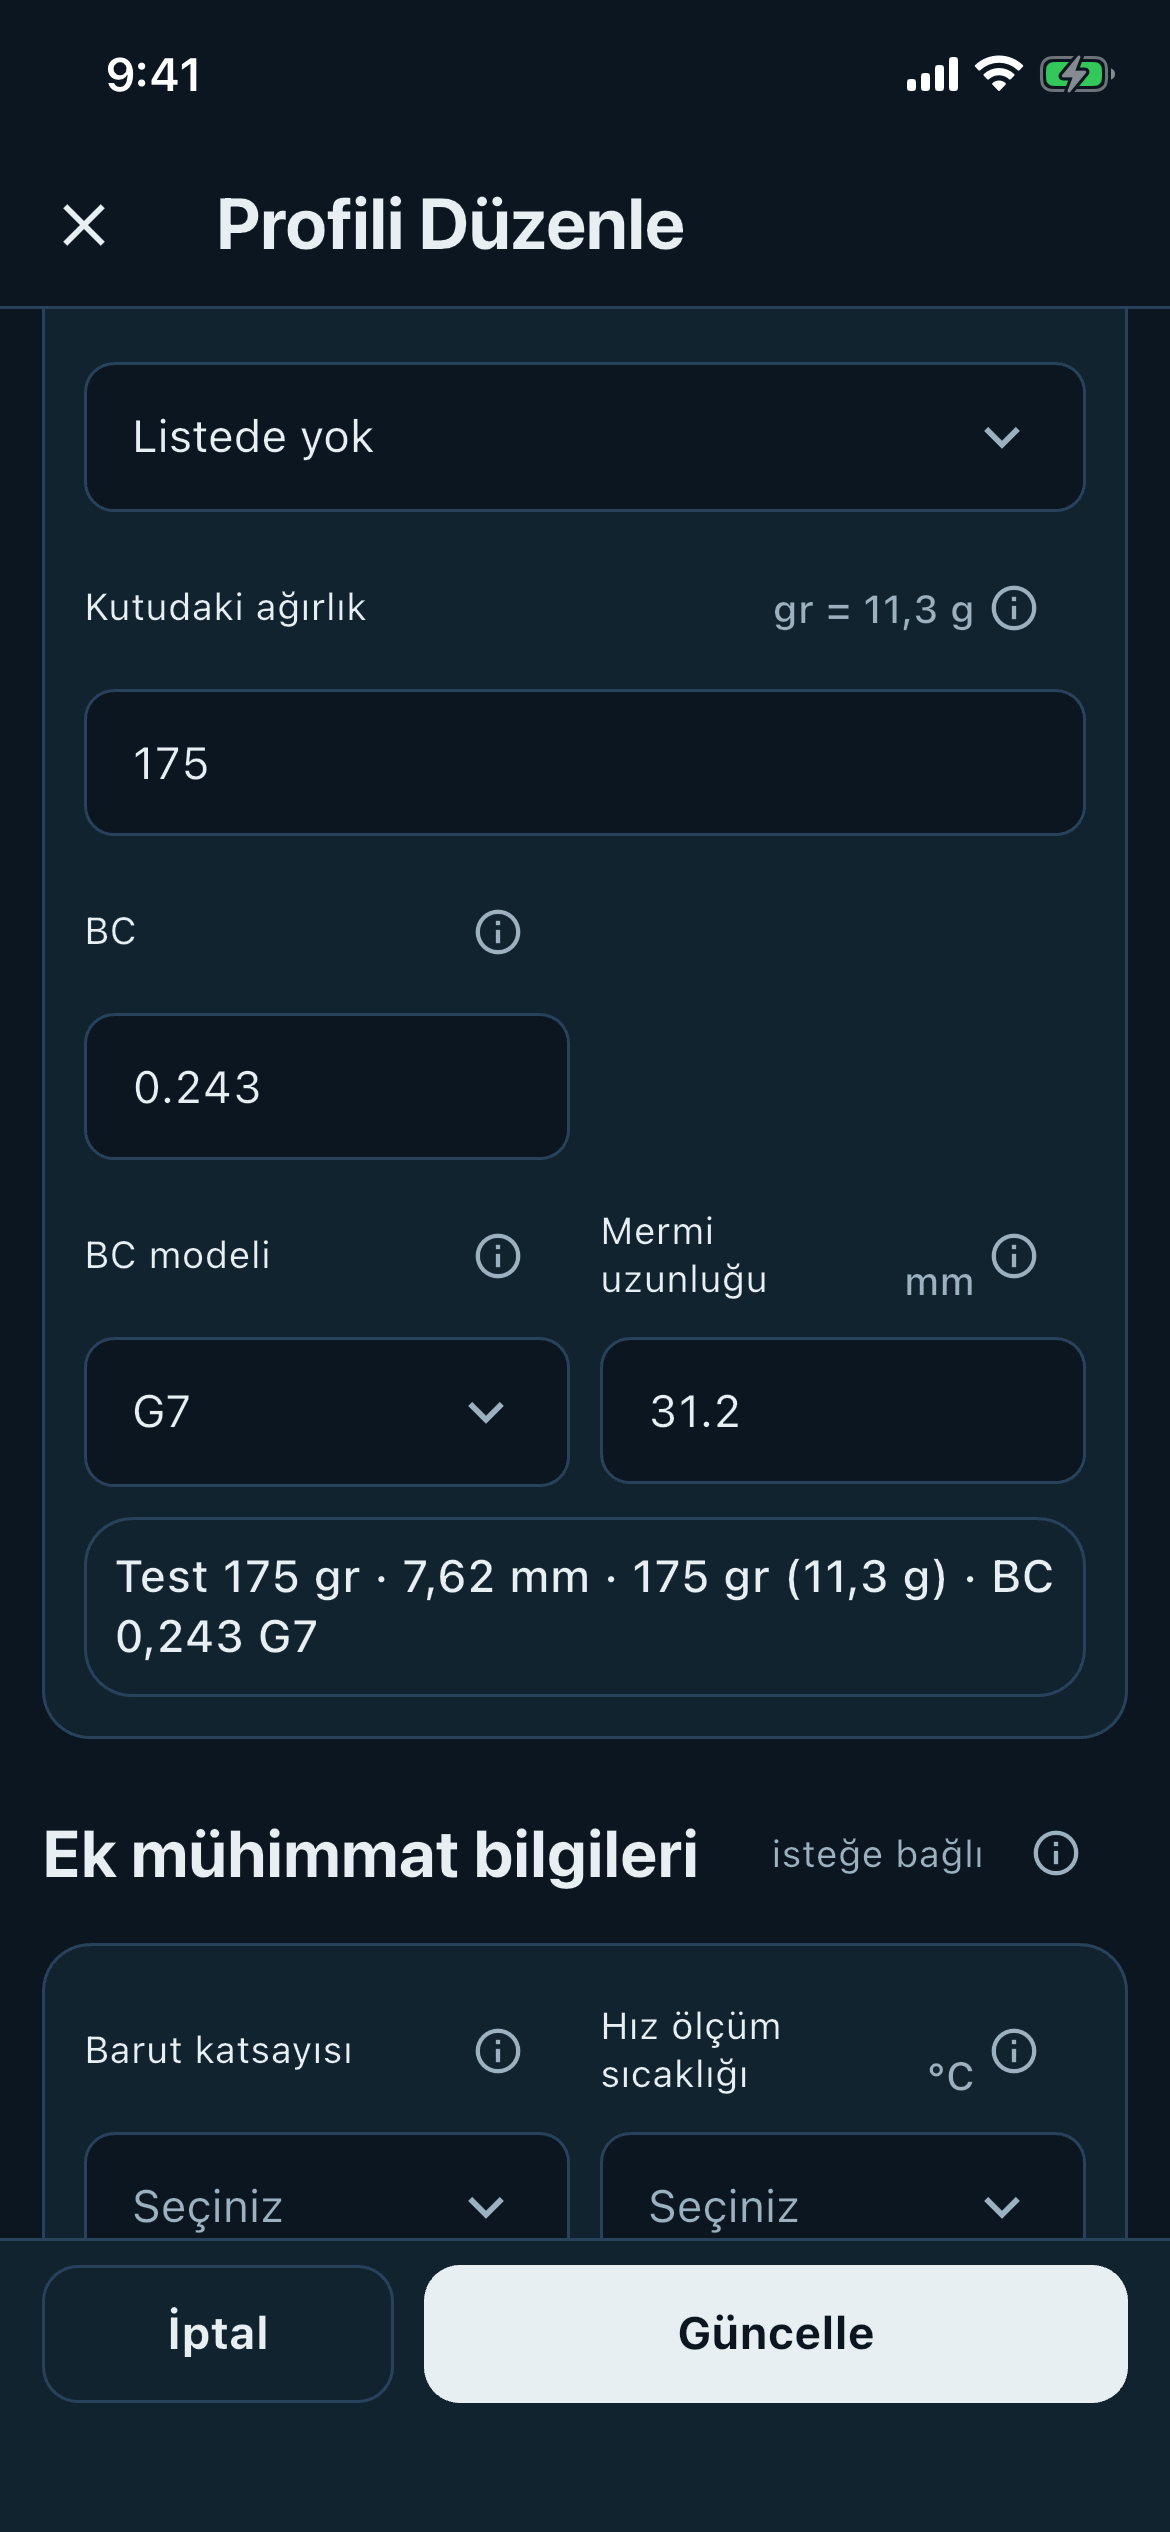
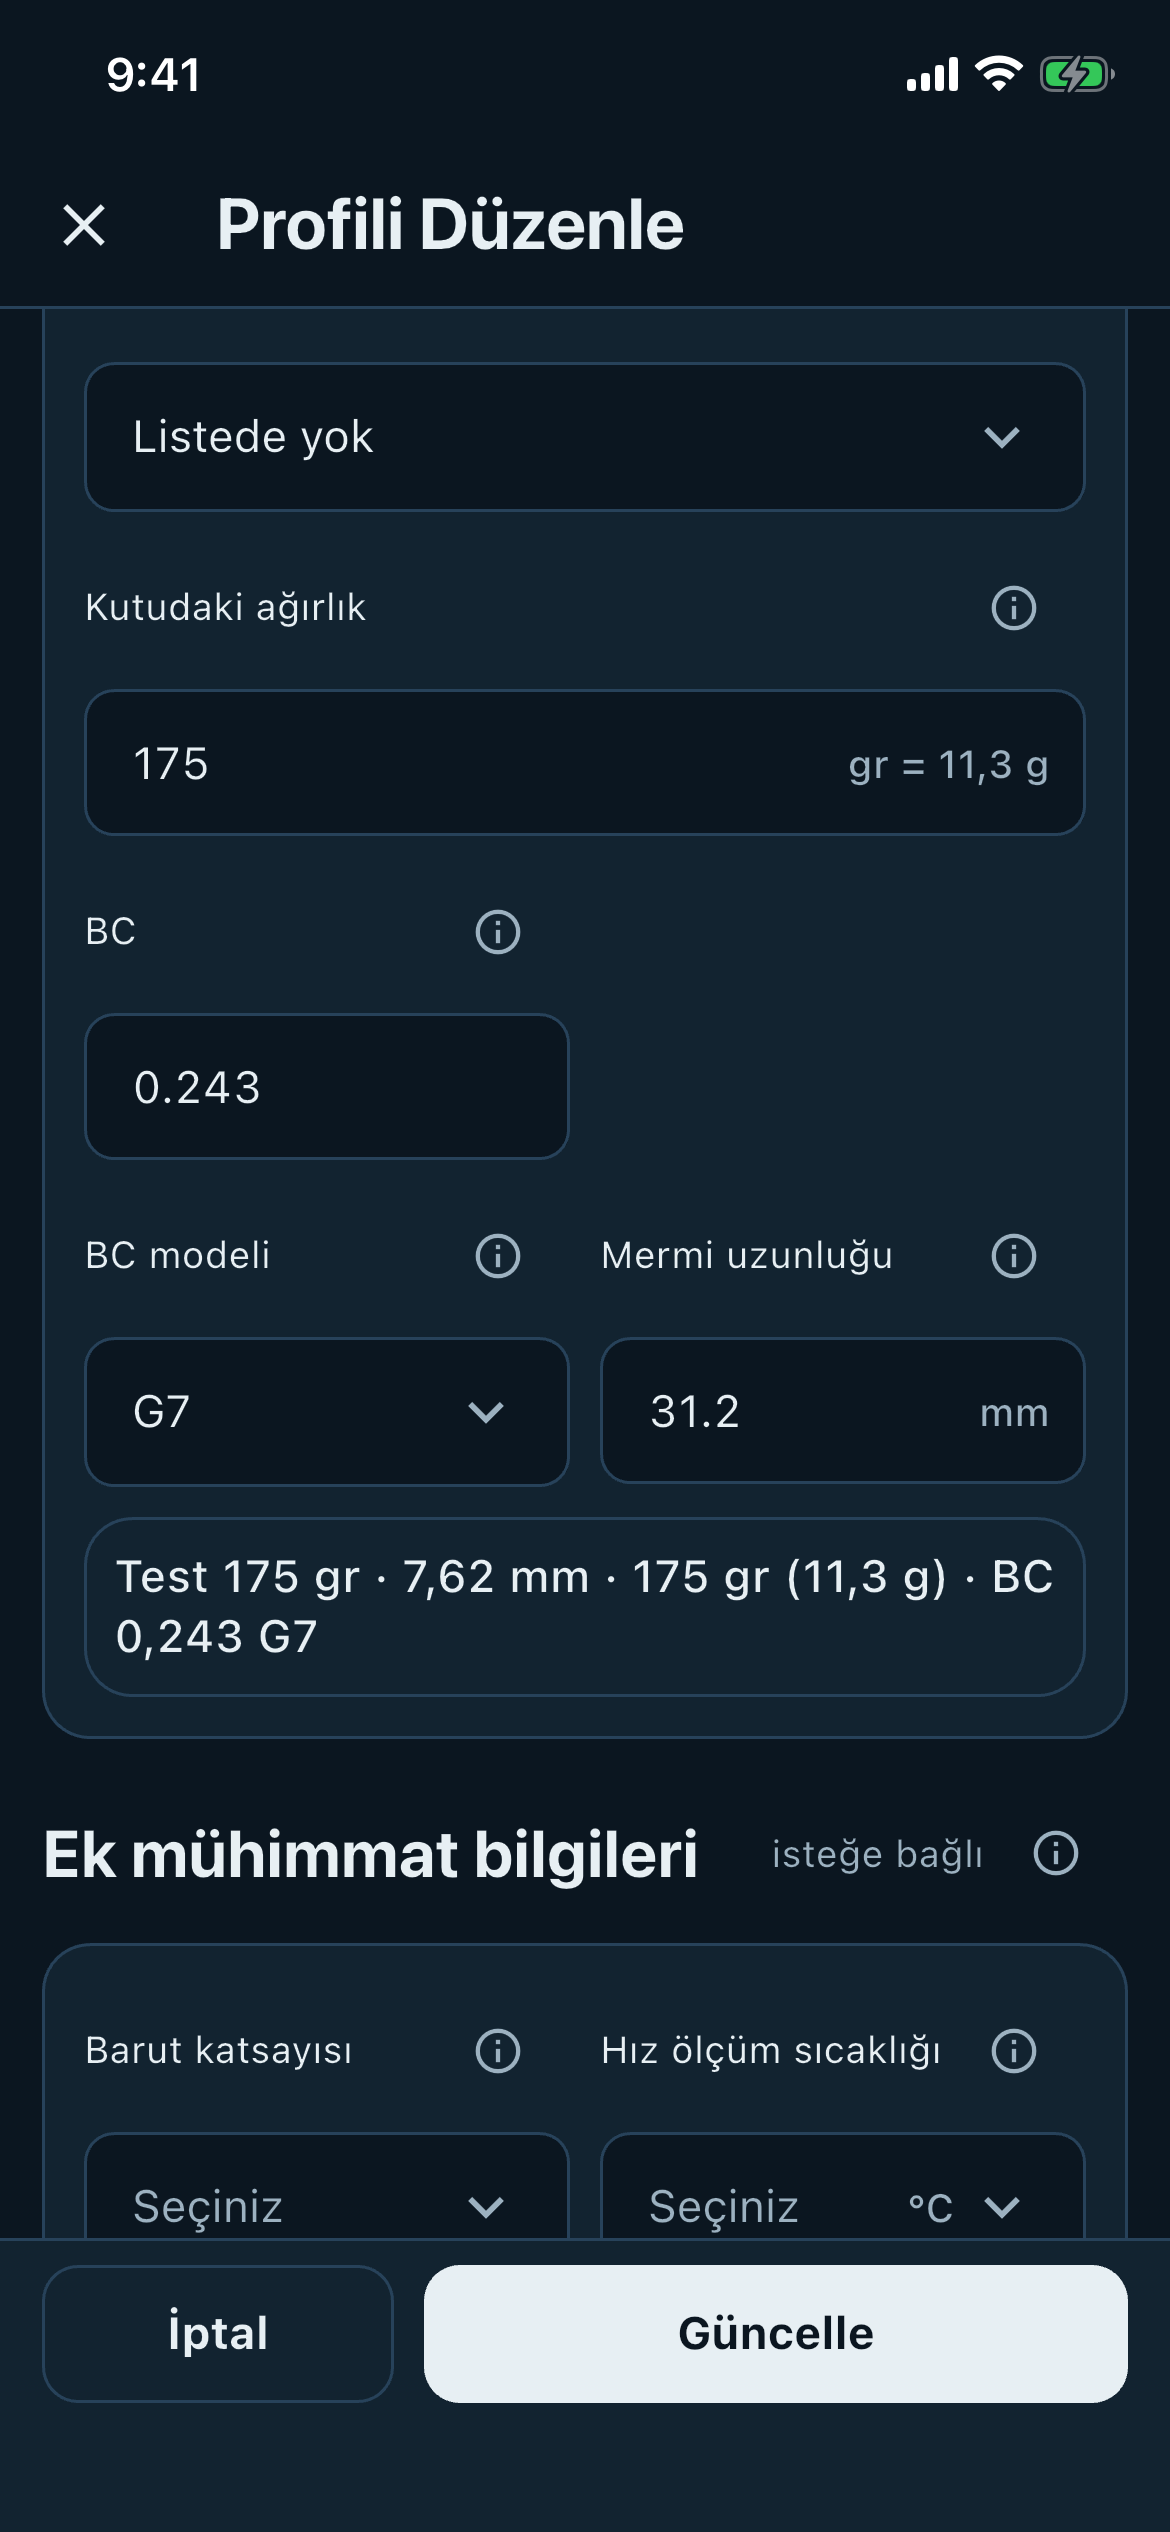
sim screens: fix/pro-barut-not @ be7be4b (run 39035853790, rc 0)

diff --git a/README.md b/README.md
@@ -1,7 +1,7 @@
 # Simulator screenshots
 
-- Source: `fix/pro-barut-not` @ `5703cbfbb4ff6381dcb02e942aafdf701887e21f`
-- Run: https://github.com/sniperTurk/flutter-app/actions/runs/39026830000
+- Source: `fix/pro-barut-not` @ `be7be4b69abdb75f51cf69c060602ecb48c61ab8`
+- Run: https://github.com/sniperTurk/flutter-app/actions/runs/39035853790
 - flutter test exit code: 0 (0 = every step passed)
 - Device: iPhone 16e / iOS 26.2
 
